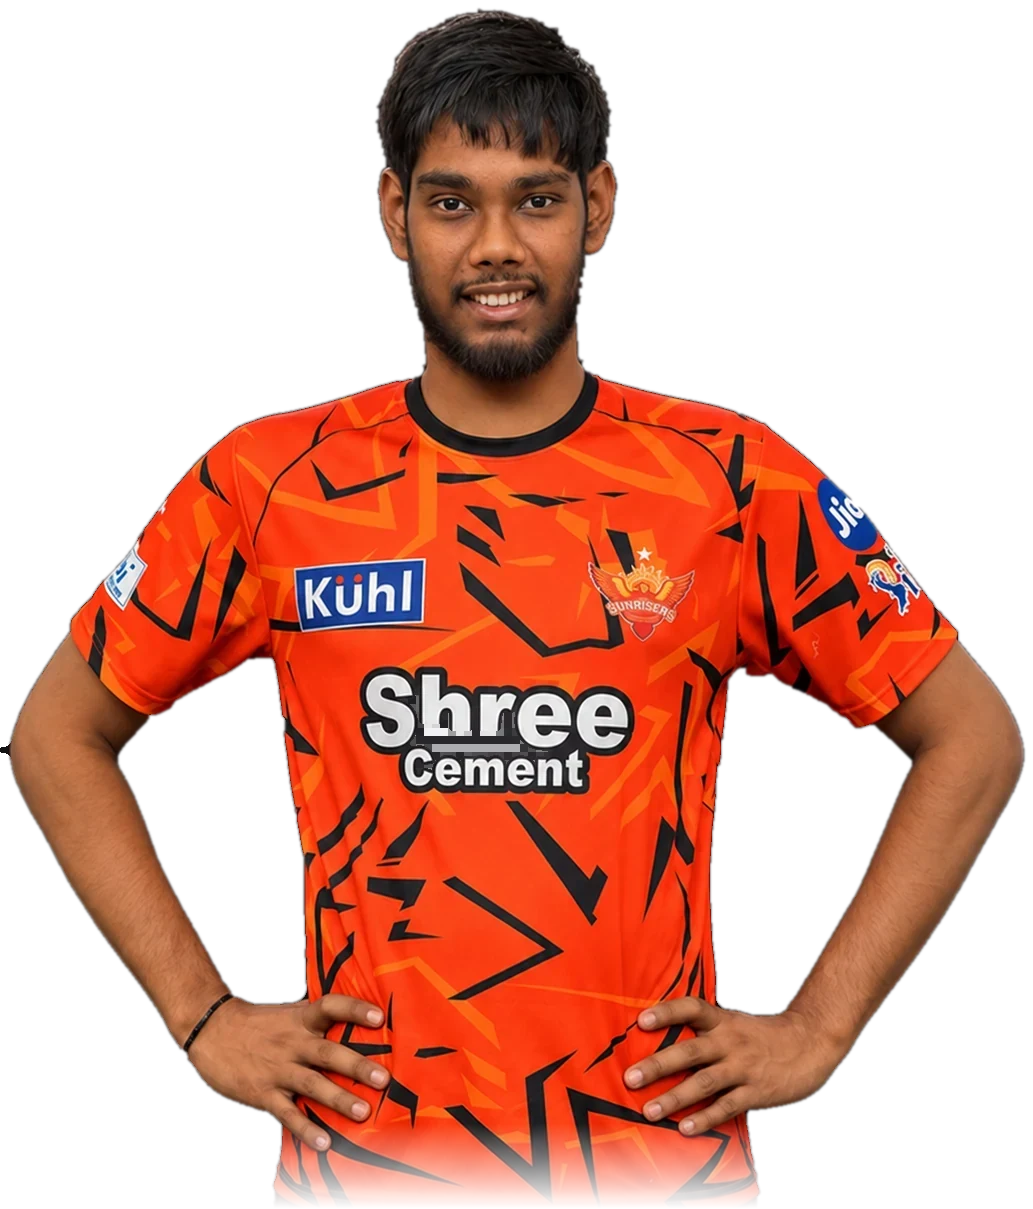
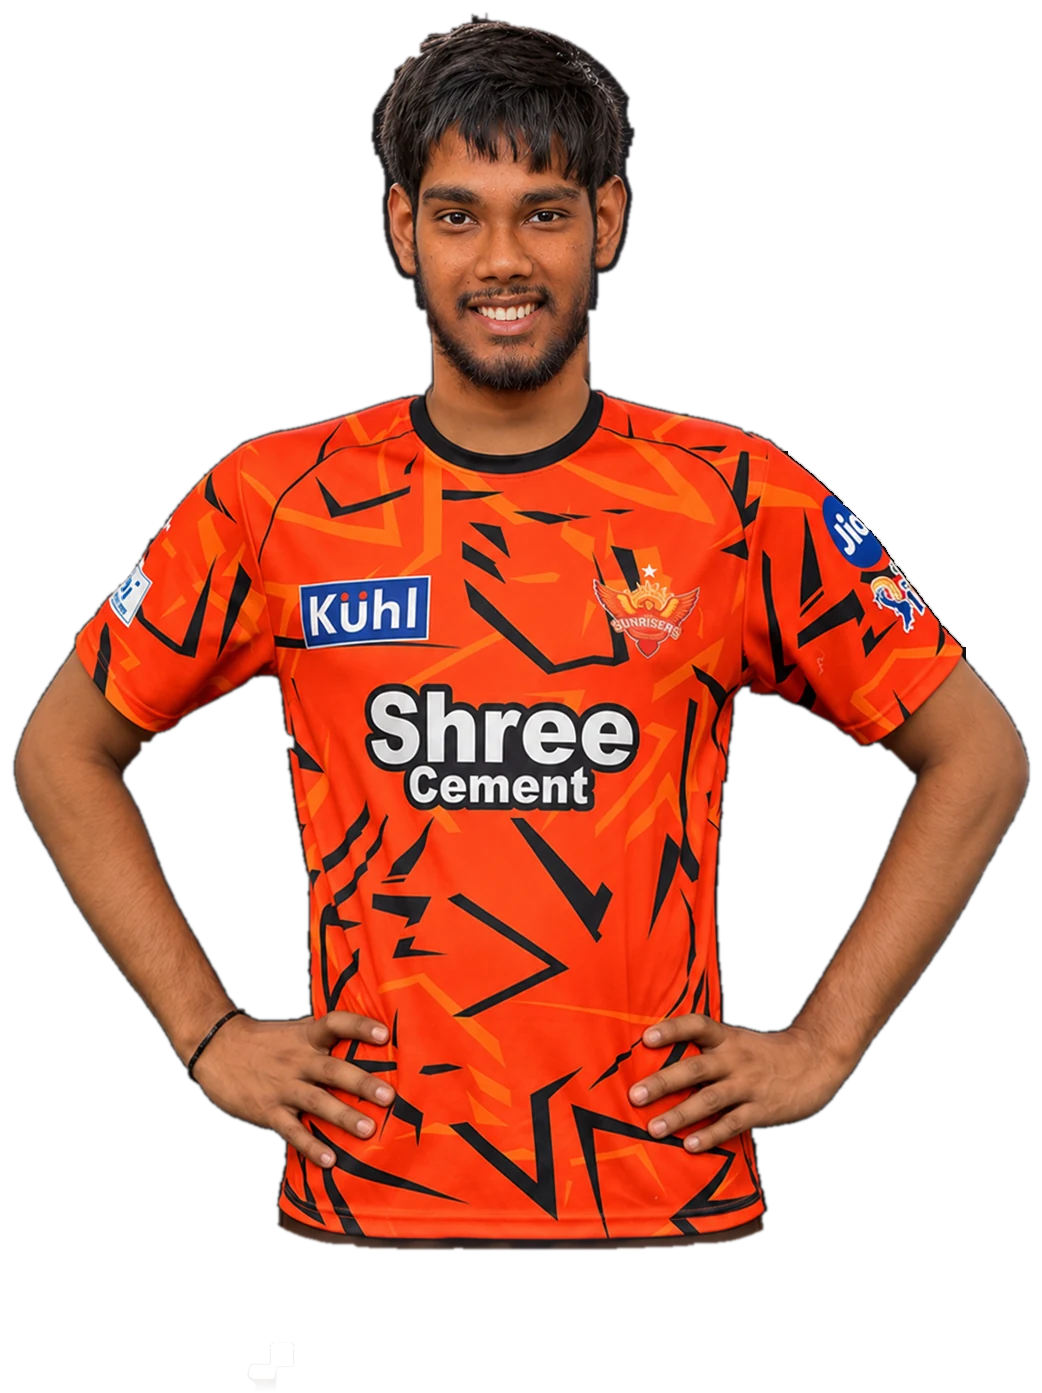
Hero: new confident-smile poses (hands on hips, arms crossed), cut out and aligned
Claude-Session: https://claude.ai/code/session_018yCDpejobBH6E38wx2Ux6E

diff --git a/srh/index.html b/srh/index.html
@@ -11,9 +11,9 @@
 <link rel="apple-touch-icon" href="media/logos/apple-touch-icon.png">
 <meta name="theme-color" content="#0a0a0b">
 <link rel="preload" href="fonts/anton-latin.woff2" as="font" type="font/woff2" crossorigin>
-<link rel="preload" href="media/photos/hero-hips.webp?v=1795635861" as="image">
+<link rel="preload" href="media/photos/hero-hips.webp?v=4" as="image">
 <link rel="stylesheet" href="fonts/fonts.css">
-<link rel="stylesheet" href="v3.css?v=1795716501">
+<link rel="stylesheet" href="v3.css?v=1795717258">
 <noscript><style>.hero-copy>*,.hero-me,.hero-heat,.hero-word,.hero-shards,[data-reveal],.bids li{opacity:1!important;transform:none!important}</style></noscript>
 </head>
 <body class="intro">
@@ -49,9 +49,9 @@
   <div class="lights" aria-hidden="true"><i class="beam b1"></i><i class="beam b2"></i><i class="beam b3"></i><i class="beam b4"></i></div>
   <canvas class="embers" id="embers" aria-hidden="true"></canvas>
   <div class="hero-word" aria-hidden="true"><span>ORANGE</span><span>ARMY</span></div>
-  <img class="hero-me" src="media/photos/hero-hips.webp?v=2" alt="Anudeep Gupta in the Sunrisers Hyderabad jersey" width="1033" height="1209">
+  <img class="hero-me" src="media/photos/hero-hips.webp?v=4" alt="Anudeep Gupta in the Sunrisers Hyderabad jersey" width="1042" height="1393">
   <canvas class="hero-glitch" id="hero-glitch" aria-hidden="true"></canvas>
-  <img class="hero-me hero-alt" src="media/photos/hero-arms.webp?v=3" alt="" aria-hidden="true" width="1033" height="1209" loading="eager">
+  <img class="hero-me hero-alt" src="media/photos/hero-arms.webp?v=4" alt="" aria-hidden="true" width="1042" height="1393" loading="eager">
   <div class="hero-copy">
     <div class="crest-row"><img class="hero-crest" src="media/logos/srh-logo.webp" alt="Sunrisers Hyderabad" width="640" height="481"><p class="tag"><i class="live" aria-hidden="true"></i>Breaking · New signing</p></div>
     <h1><span class="h1-a">Welcome to the Orange Army,</span><span class="h1-b">Anudeep <em>Gupta</em></span></h1>
@@ -450,6 +450,6 @@
 <script src="vendor/gsap.min.js"></script>
 <script src="vendor/ScrollTrigger.min.js"></script>
 <script src="vendor/lenis.min.js"></script>
-<script src="v3.js?v=1795716501"></script>
+<script src="v3.js?v=1795717258"></script>
 </body>
 </html>

diff --git a/srh/case.html b/srh/case.html
@@ -11,7 +11,7 @@
 <meta name="theme-color" content="#0a0a0b">
 <link rel="preload" href="fonts/anton-latin.woff2" as="font" type="font/woff2" crossorigin>
 <link rel="stylesheet" href="fonts/fonts.css">
-<link rel="stylesheet" href="v3.css?v=1795716501">
+<link rel="stylesheet" href="v3.css?v=1795717258">
 <style>
 .c-hero{position:relative;min-height:78svh;display:flex;align-items:flex-end;padding:120px var(--pad) 60px;overflow:hidden;isolation:isolate}
 .c-hero-img{position:absolute;inset:0;z-index:-2}
